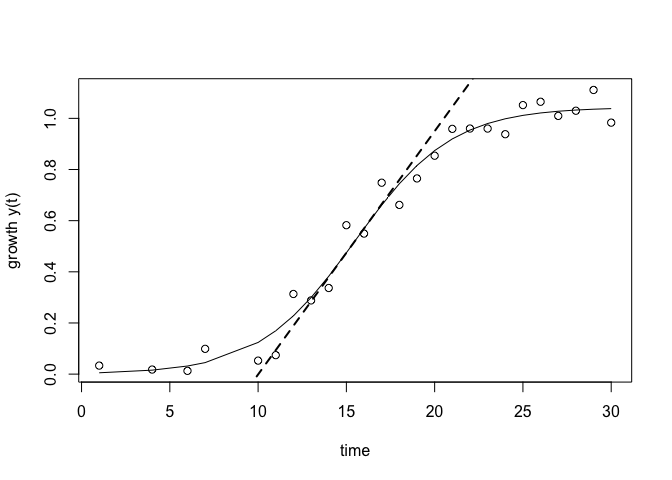
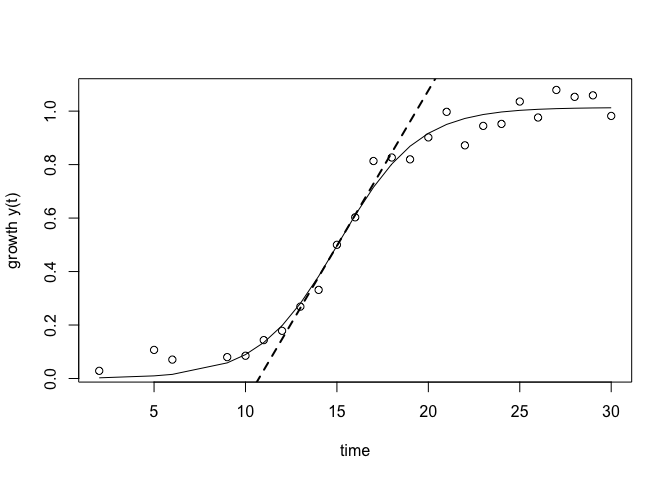
README update

diff --git a/README.md b/README.md
@@ -32,9 +32,48 @@ Examples
 
 First, let's create some sample data containing some time points in the
 *Time* column and some corresponding growth measurements in the *OD600*
-column:
+column and take a look at the first few rows:
 
     sampledata <- data.frame(Time=1:30, OD600=1/(1+exp(0.5*(15-1:30)))+rnorm(30)/20)
+
+<table>
+<colgroup>
+<col width="9%" />
+<col width="11%" />
+</colgroup>
+<thead>
+<tr class="header">
+<th align="center">Time</th>
+<th align="center">OD600</th>
+</tr>
+</thead>
+<tbody>
+<tr class="odd">
+<td align="center">1</td>
+<td align="center">-0.1017</td>
+</tr>
+<tr class="even">
+<td align="center">2</td>
+<td align="center">0.0286</td>
+</tr>
+<tr class="odd">
+<td align="center">3</td>
+<td align="center">-0.08031</td>
+</tr>
+<tr class="even">
+<td align="center">4</td>
+<td align="center">-0.04062</td>
+</tr>
+<tr class="odd">
+<td align="center">5</td>
+<td align="center">0.1068</td>
+</tr>
+<tr class="even">
+<td align="center">6</td>
+<td align="center">0.07066</td>
+</tr>
+</tbody>
+</table>
 
 Now, let's fit a logistic growth curve for this data set:
 
@@ -48,18 +87,18 @@ Information about the logistic fit is available in `parameters`:
 
     ## $A
     ##   Estimate Std. Error 
-    ## 1.04331581 0.02567318 
+    ## 1.01357079 0.01879774 
     ## 
     ## $mu
     ##    Estimate  Std. Error 
-    ## 0.095119534 0.008116082 
+    ## 0.116220067 0.009291475 
     ## 
     ## $lambda
     ##   Estimate Std. Error 
-    ## 10.0140254  0.5134149 
+    ## 10.7315150  0.3872034 
     ## 
     ## $integral
-    ## [1] 15.13009
+    ## [1] 15.10681
 
 For this fit, the maximum growth value is 0.99848023
 (`lfit$parameters$A`), the maximum growth rate (the slope) is
